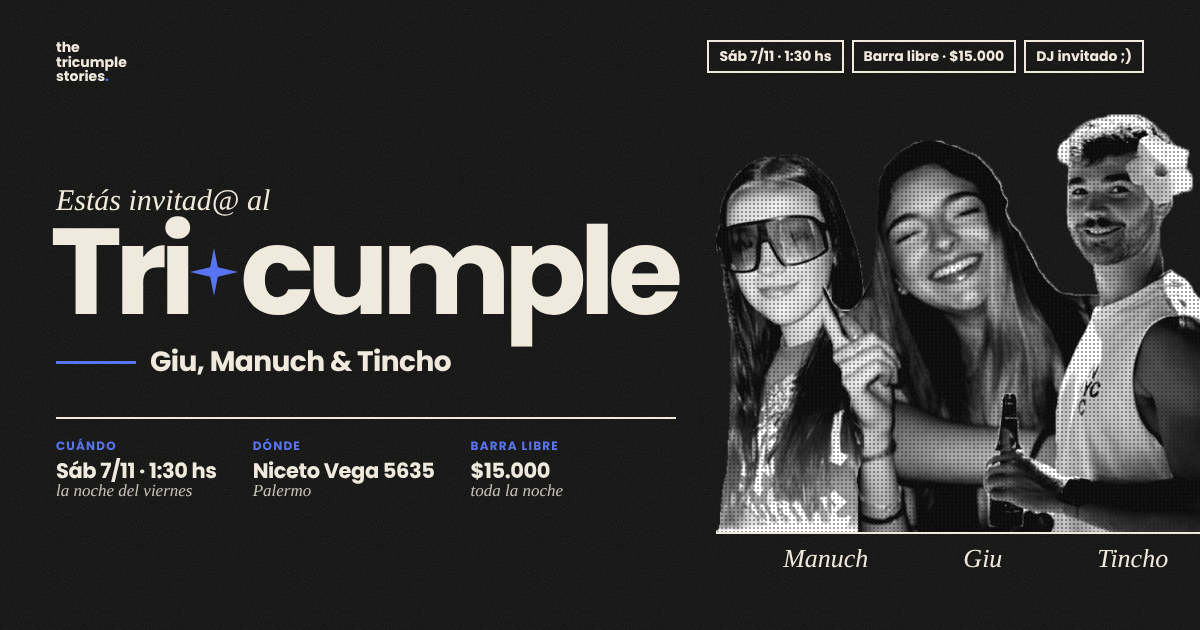
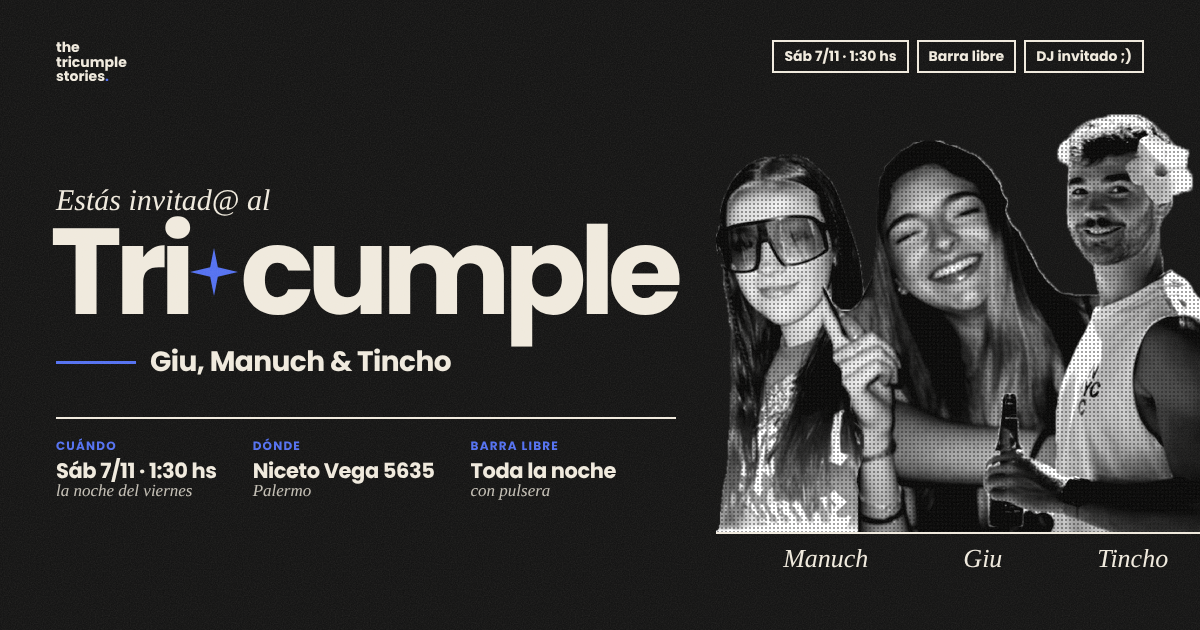
Barra libre 17.500 y portada sin precio

Changed region(s): [[0.5858, 0.0603, 0.8325, 0.1206], [0.37, 0.7238, 0.5242, 0.8143]]

diff --git a/src/routes/index.tsx b/src/routes/index.tsx
@@ -9,7 +9,7 @@ export const Route = createFileRoute("/")({
   head: () => ({
     meta: [
       { title: "Tricumple · Giu, Manuch y Tincho" },
-      { name: "description", content: "Sábado 7/11 · 1:30 hs · Niceto Vega 5635 · Barra libre $15.000. Confirmá tu lugar y llevate tu QR." },
+      { name: "description", content: "Sábado 7/11 · 1:30 hs · Niceto Vega 5635 · Barra libre. Confirmá tu lugar y llevate tu QR." },
       { property: "og:title", content: "Tricumple · Giu, Manuch y Tincho" },
       { property: "og:description", content: "Sáb 7/11 · 1:30 hs · Niceto Vega 5635 · Barra libre · DJ invitado. Confirmá tu lugar y llevate tu QR." },
       { property: "og:type", content: "website" },

diff --git a/src/lib/copy.ts b/src/lib/copy.ts
@@ -29,13 +29,13 @@ export const DEFAULT_COPY: Copy = {
   synopsis: "Tres cumples, una sola noche y barra libre. Juntamos todo en una fiesta porque hacer tres era mucho. Vení, que se va a descontrolar.",
   joke: "Si no venís, date como eliminad@ de nuestras vidas.",
   tag1: "Sáb 7/11 · 1:30 hs",
-  tag2: "Barra libre · $15.000",
+  tag2: "Barra libre · $17.500",
   tag3: "DJ invitado ;)",
   when: "Sáb 7/11 · 1:30 hs",
   whenNote: "la noche del viernes",
   where: "Niceto Vega 5635",
   whereNote: "Palermo",
-  bar: "$15.000",
+  bar: "$17.500",
   barNote: "toda la noche",
   formTitle: "Confirmá tu lugar.",
   formSub: "Solo tu nombre y email. Nada más.",

diff --git a/src/components/Wristband.tsx b/src/components/Wristband.tsx
@@ -3,7 +3,7 @@ import { useServerFn } from "@tanstack/react-start";
 import { startReceiptUpload, confirmReceipt, redeemCode, type Discount } from "@/lib/guests.functions";
 
 const ALIAS = "manufer.bru";
-export const BAR_PRICE = 15000;
+export const BAR_PRICE = 17500;
 const money = (n: number) => "$" + n.toLocaleString("es-AR");
 const EXTS = ["jpg", "jpeg", "png", "webp", "heic", "pdf"] as const;
 type Ext = (typeof EXTS)[number];
